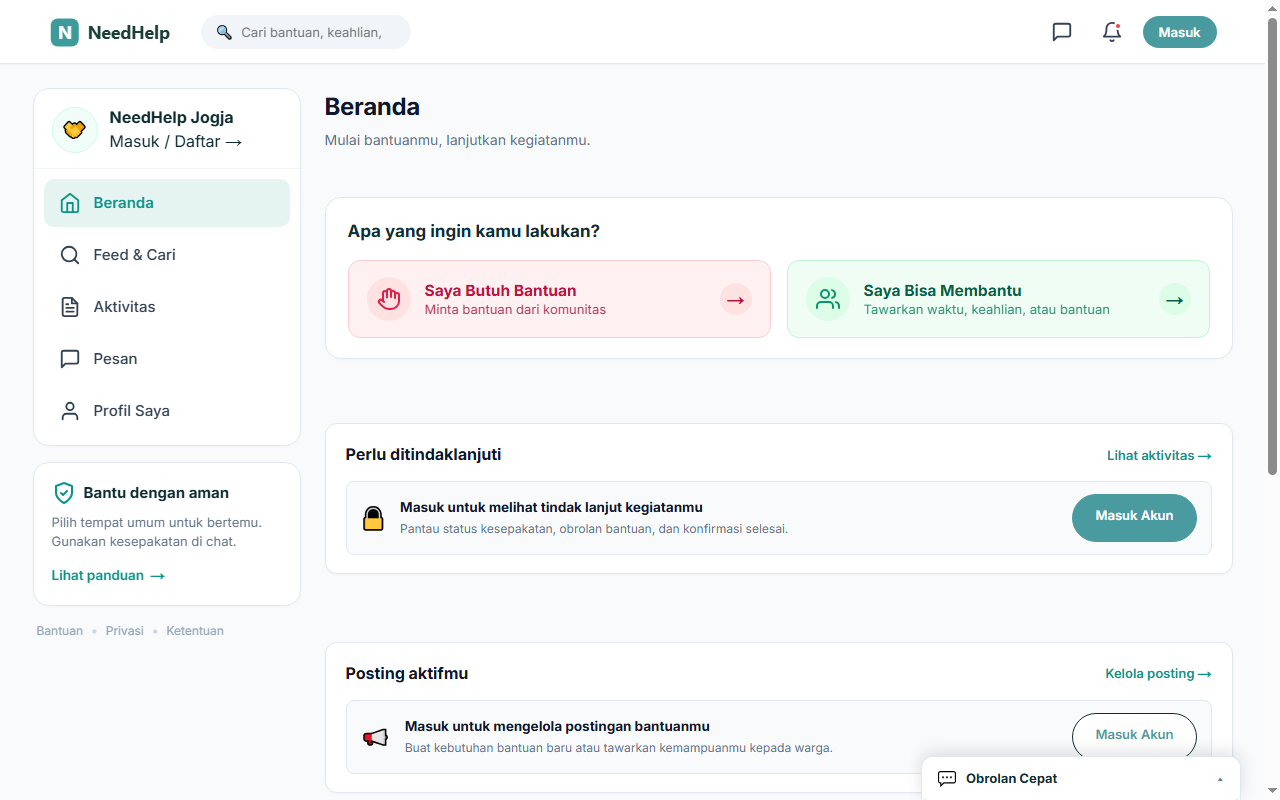
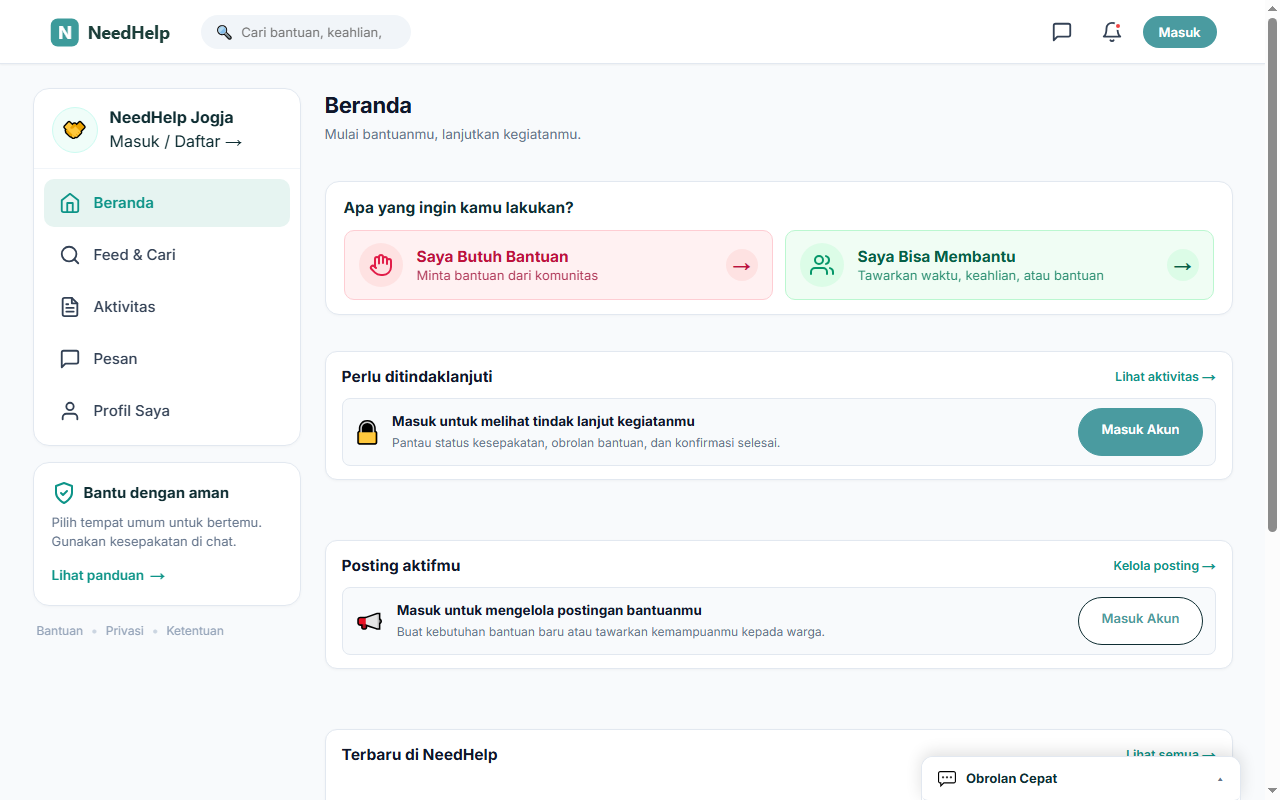
style(home): tighten section spacing and compact card padding on Beranda

diff --git a/src/styles/three-column.css b/src/styles/three-column.css
@@ -2555,31 +2555,31 @@
 .post-action-prompt-card {
   background: #ffffff;
   border: 1px solid #e2e8f0;
-  border-radius: 16px;
-  padding: 20px 22px;
+  border-radius: 14px;
+  padding: 14px 18px;
   box-shadow: 0 1px 3px rgba(0, 0, 0, 0.03);
-  margin-bottom: 20px;
+  margin-bottom: 0;
 }
 
 .prompt-card-heading {
-  font-size: 17px;
+  font-size: 15.5px;
   font-weight: 700;
   color: #0f2e33;
-  margin: 0 0 16px;
+  margin: 0 0 10px;
 }
 
 .prompt-options-grid {
   display: grid;
   grid-template-columns: 1fr 1fr;
-  gap: 16px;
+  gap: 12px;
 }
 
 .prompt-option-item {
   display: flex;
   align-items: center;
   justify-content: space-between;
-  padding: 16px 18px;
-  border-radius: 12px;
+  padding: 12px 14px;
+  border-radius: 10px;
   text-decoration: none;
   transition: all 0.2s ease;
   border: 1px solid transparent;
@@ -3401,23 +3401,23 @@
 .home-dashboard-wrapper {
   display: flex;
   flex-direction: column;
-  gap: 20px;
+  gap: 12px;
 }
 
 .home-header-block {
-  margin-bottom: 2px;
+  margin-bottom: 0px;
 }
 
 .home-header-block .home-title {
-  font-size: 24px;
+  font-size: 22px;
   font-weight: 700;
   color: #0f172a;
-  margin: 0 0 4px;
+  margin: 0 0 2px;
   letter-spacing: -0.3px;
 }
 
 .home-header-block .home-subtitle {
-  font-size: 14px;
+  font-size: 13.5px;
   color: #64748b;
   margin: 0;
 }
@@ -3426,7 +3426,7 @@
   background: #ffffff;
   border: 1px solid #e2e8f0;
   border-radius: 12px;
-  padding: 18px 20px;
+  padding: 13px 16px;
   box-shadow: 0 1px 3px rgba(0, 0, 0, 0.04);
 }
 
@@ -3435,18 +3435,18 @@
   align-items: center;
   justify-content: space-between;
   gap: 12px;
-  margin-bottom: 14px;
+  margin-bottom: 9px;
 }
 
 .home-section-heading {
-  font-size: 16px;
+  font-size: 15.5px;
   font-weight: 700;
   color: #0f172a;
   margin: 0;
 }
 
 .home-section-link {
-  font-size: 13px;
+  font-size: 12.5px;
   font-weight: 600;
   color: #0d9488;
   text-decoration: none;
@@ -3461,15 +3461,15 @@
 .actionable-items-list {
   display: flex;
   flex-direction: column;
-  gap: 10px;
+  gap: 8px;
 }
 
 .actionable-item-row {
   display: flex;
   align-items: center;
   justify-content: space-between;
-  gap: 14px;
-  padding: 12px 14px;
+  gap: 12px;
+  padding: 9px 12px;
   background: #f8fafc;
   border: 1px solid #e2e8f0;
   border-radius: 8px;
@@ -3482,13 +3482,13 @@
 }
 
 .actionable-icon-box {
-  width: 38px;
-  height: 38px;
+  width: 34px;
+  height: 34px;
   border-radius: 8px;
   display: flex;
   align-items: center;
   justify-content: center;
-  font-size: 18px;
+  font-size: 16px;
   flex-shrink: 0;
   background: #eff6ff;
   border: 1px solid #dbeafe;
@@ -3503,50 +3503,50 @@
 }
 
 .actionable-title {
-  font-size: 14px;
+  font-size: 13.5px;
   font-weight: 700;
   color: #0f172a;
   line-height: 1.3;
 }
 
 .actionable-subtitle {
-  font-size: 12.5px;
+  font-size: 12px;
   color: #64748b;
 }
 
 .actionable-btn {
   white-space: nowrap;
-  font-size: 12.5px;
+  font-size: 12px;
   font-weight: 600;
-  padding: 6px 14px;
+  padding: 5px 12px;
   flex-shrink: 0;
 }
 
 .user-active-posts-list {
   display: flex;
   flex-direction: column;
-  gap: 10px;
+  gap: 8px;
 }
 
 .active-post-row {
   display: flex;
   align-items: center;
   justify-content: space-between;
-  gap: 14px;
-  padding: 12px 14px;
+  gap: 12px;
+  padding: 9px 12px;
   background: #f8fafc;
   border: 1px solid #e2e8f0;
   border-radius: 8px;
 }
 
 .active-post-icon-box {
-  width: 38px;
-  height: 38px;
+  width: 34px;
+  height: 34px;
   border-radius: 8px;
   display: flex;
   align-items: center;
   justify-content: center;
-  font-size: 18px;
+  font-size: 16px;
   flex-shrink: 0;
 }
 
@@ -3631,7 +3631,7 @@
   display: flex;
   align-items: center;
   gap: 12px;
-  padding: 12px 14px;
+  padding: 9px 12px;
   background: #f8fafc;
   border: 1px dashed #cbd5e1;
   border-radius: 8px;
@@ -3660,8 +3660,8 @@
   display: flex;
   align-items: center;
   justify-content: space-between;
-  gap: 14px;
-  padding: 12px 14px;
+  gap: 12px;
+  padding: 9px 12px;
   background: #f8fafc;
   border: 1px solid #e2e8f0;
   border-radius: 8px;
